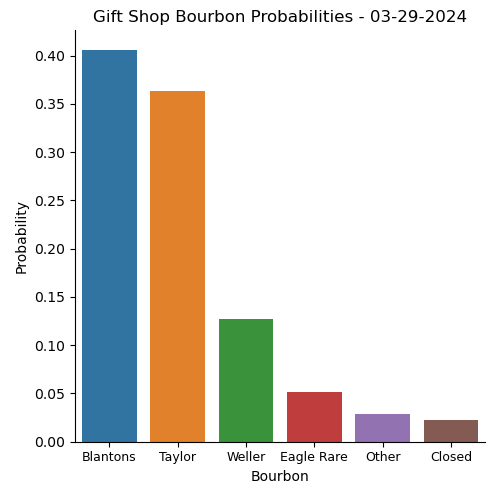
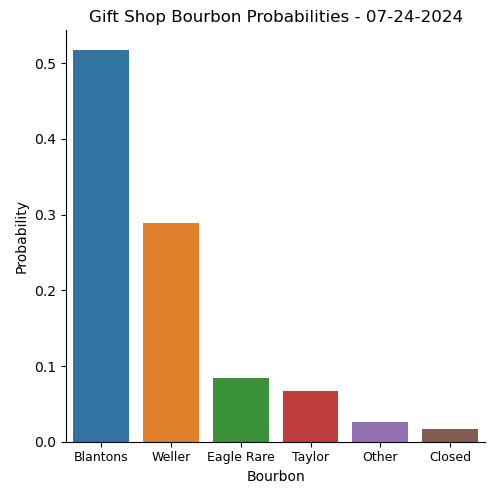
Manual update

diff --git a/BTB_make_data.py b/BTB_make_data.py
@@ -22,23 +22,23 @@ import time
 def scrape_bourbon_data(urls):
     def get_bourbon_data(url):
         """
-        Function to pull bourbon gift shop data. 
+        Function to pull bourbon gift shop data.
 
         Parameters
         ----------
         urls : string
-            List of URLs to scrape. 
-            
+            List of URLs to scrape.
+
         url : string
             URL for the website.
 
         Returns
         -------
-        x : Dataframe 
+        x : Dataframe
             Dataframe of info from HTML table.
-        
-        df : Dataframe 
-            Dataframe of all info from HTML tables. 
+
+        df : Dataframe
+            Dataframe of all info from HTML tables.
 
         """
 
@@ -67,7 +67,7 @@ def scrape_bourbon_data(urls):
     for url in urls:
         df = pd.concat([df, get_bourbon_data(url)], ignore_index=True)
 
-    # Provide columns labels 
+    # Provide columns labels
     df.columns = ['Date', 'DOW', 'B1', 'B2']
 
     # Return final dataframe #
@@ -76,13 +76,14 @@ def scrape_bourbon_data(urls):
 
 # URL of the pages to scrape
 urls = [
+    "https://buffalotracedaily.com/2024-gift-shop-releases/",
     "https://buffalotracedaily.com/2023-gift-shop-releases/",
     "https://buffalotracedaily.com/2022-gift-shop-releases/",
     "https://buffalotracedaily.com/2021-gift-shop-releases/",
     "https://buffalotracedaily.com/2020-gift-shop-releases/"
 ]
 
-# Call the function to get bourbon data 
+# Call the function to get bourbon data
 bourbon = scrape_bourbon_data(urls)
 del urls
 
@@ -116,6 +117,20 @@ def get_update(x, access_limit = 20, sleep_duration = 2):
                             'DOW': 'MON',
                             'B1': 'Closed',
                             'B2': ' '}, index = [0])
+        x = pd.concat([x, missing])
+
+    if x['Date'].max() < pd.to_datetime('2024-07-03 00:00:00'):
+        missing = pd.DataFrame({'Date': pd.to_datetime('2024-07-03 00:00:00'),
+                                'DOW': 'WED',
+                                'B1': 'Taylor',
+                                'B2': ' '}, index = [0])
+        x = pd.concat([x, missing])
+
+    if x['Date'].max() < pd.to_datetime('2024-07-04 00:00:00'):
+        missing = pd.DataFrame({'Date': pd.to_datetime('2024-07-04 00:00:00'),
+                                'DOW': 'THU',
+                                'B1': 'Closed',
+                                'B2': ' '}, index = [0])
         x = pd.concat([x, missing])
 
     while x['Date'].max() < datetime.now():
@@ -207,7 +222,7 @@ bourbon = get_update(bourbon)
 
 #
 #### Prepare Dataframe ####
-# 
+#
 
 
 # Pull year, month, day, and DOW #
@@ -256,7 +271,7 @@ def rename_categories(x):
     return x
 
 
-# Rename categories # 
+# Rename categories #
 bourbon['B1'] = rename_categories(bourbon['B1'])
 bourbon['B2'] = rename_categories(bourbon['B2'])
 bourbon['B3'] = rename_categories(bourbon['B3'])
